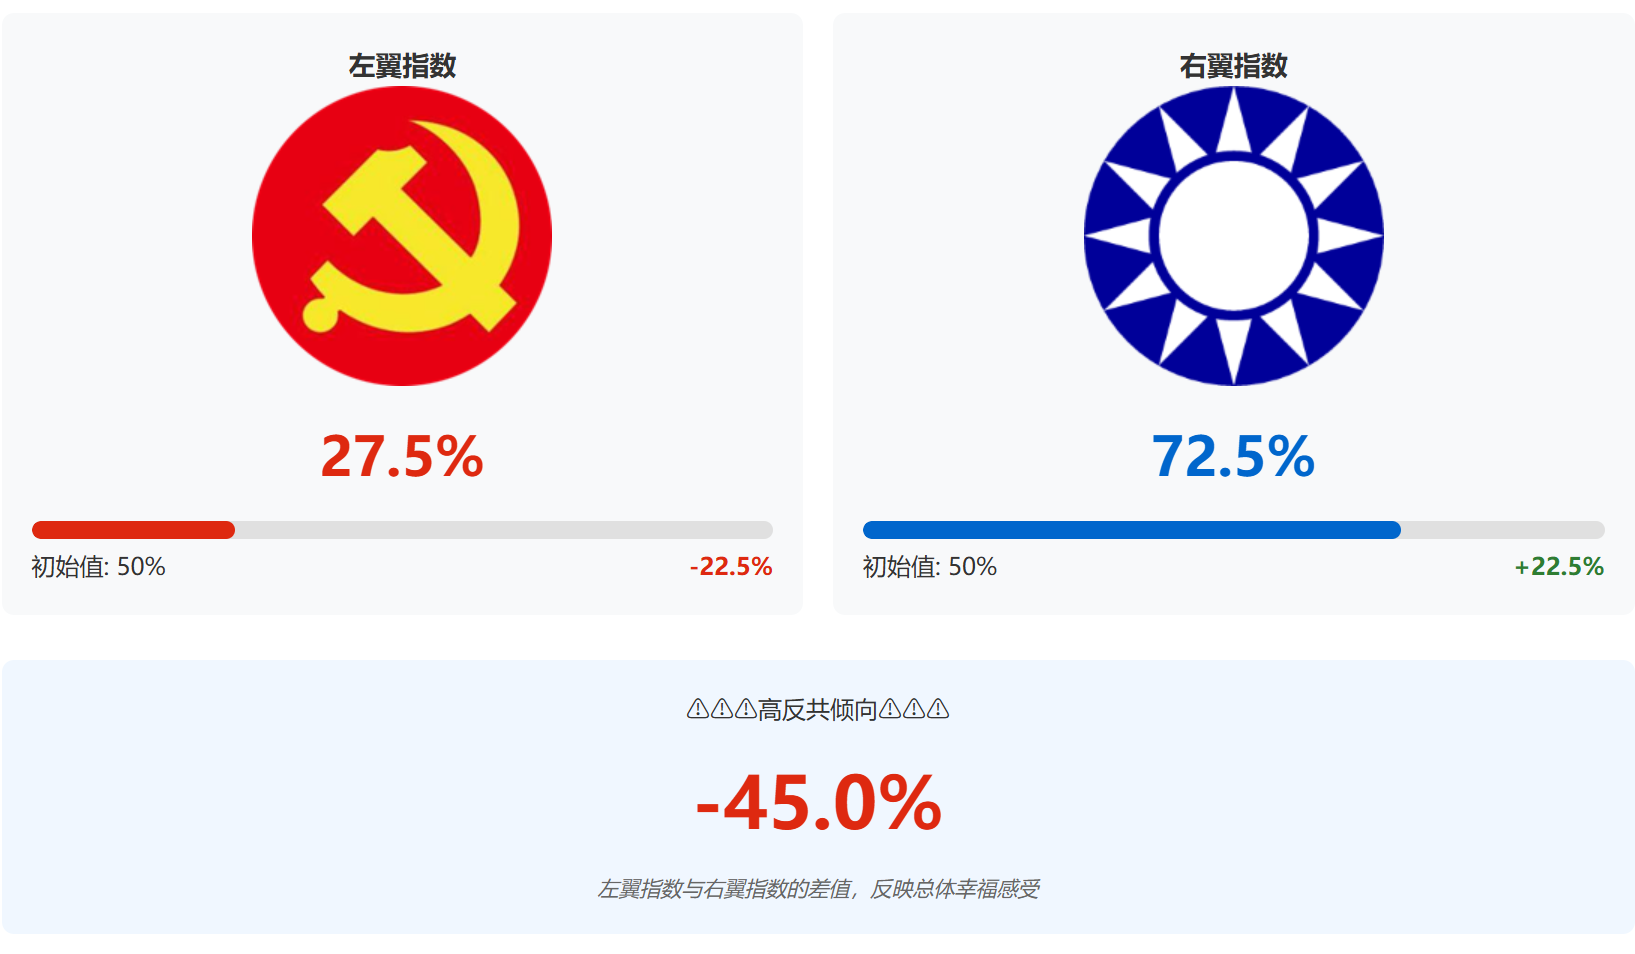
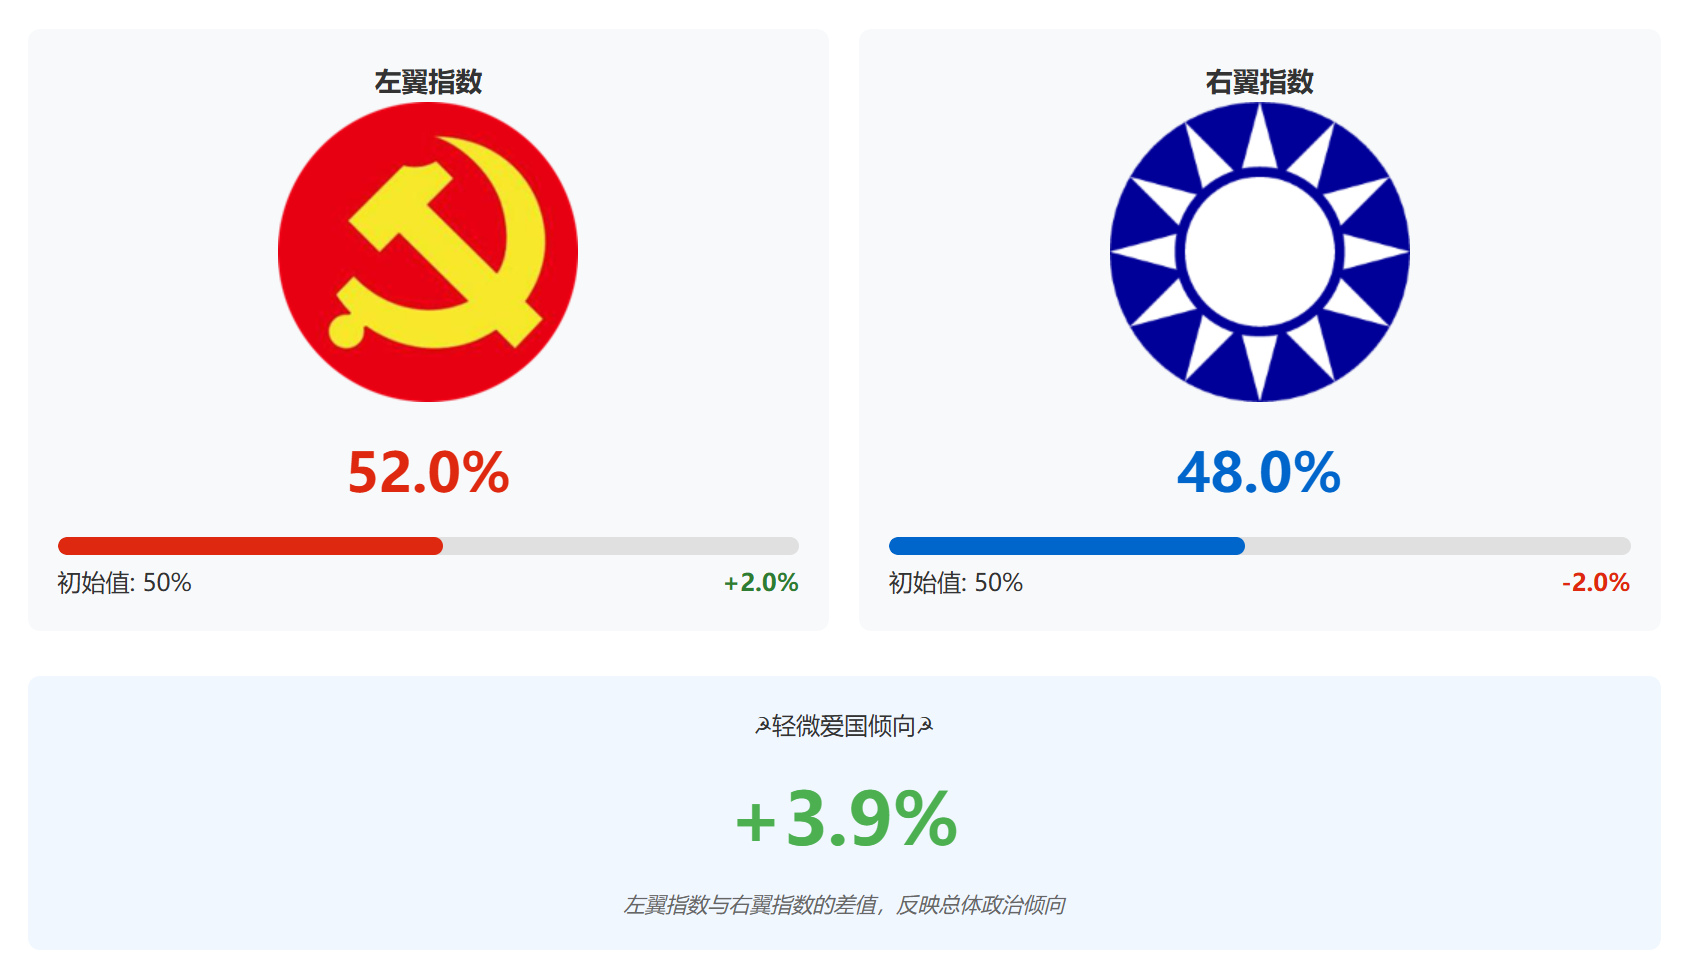
反攻！

diff --git a/README.md b/README.md
@@ -5,23 +5,23 @@
 
 *总有一天，被压迫的华南虎们会卸下身上的马具*
 
-消灭假共党，建立独立自主的 **大广东民主主义人民共和国**
+消灭民进党，建立完全统一的 **粤港澳台大湾区**
 
-![](North_Guangdong_Map.png)
->North Guangdong (北粤), Also known as Guangdong Mainland (广东大陆), also known as the People's Republic of China（PRC）. Do not confuse with [The northern part of Guangdong](https://en.wikipedia.org/wiki/Northern_Guangdong), which refers to a region in the northern part of region of [Guangdong](https://en.wikipedia.org/w/index.php?title=Guangdong_Independence_Movement). 
+<!-- ![](North_Guangdong_Map.png) -->
+<!-- >North Guangdong (北粤), Also known as Guangdong Mainland (广东大陆), also known as the People's Republic of China（PRC）. Do not confuse with [The northern part of Guangdong](https://en.wikipedia.org/wiki/Northern_Guangdong), which refers to a region in the northern part of region of [Guangdong](https://en.wikipedia.org/w/index.php?title=Guangdong_Independence_Movement).  -->
 
 
 ![](Guangdong_Map.png)
 >Great Guangdong/Cantonia map
 
-![](flag.png)
->Democratic People's Republic of Cantonia（DPRC）
+![](粤港澳大湾区.png)
+>Guangdong-Hong Kong-Macao-Taiwan Greater Bay Area
 >
->South China Tiger Revival Party（SCTRP）
+<!-- >South China Tiger Revival Party（SCTRP） -->
 
 
 
-# **一、为什么广东要独立？**
+<!-- # **一、为什么广东要独立？**
 
 1. 广东是中国目前最富裕、最具活力的省份，却长期被中共当作“奶牛”殖民掠夺。我们的巨额财政收入被强制调拨，用于给西藏、新疆等外省修建铁路、搞基建，而北粤地区的基础设施却严重滞后——例如韶关与紧邻的河源之间至今没有直达列车，必须绕道广州。这种剥削让广东人用血汗钱养活全国，却换不来应有的回报。
 
@@ -67,7 +67,7 @@
 >团结起来到明天,
 >没有邪党的新广东
 >就一定要实现!
-
+ -->
 
 ---
 
@@ -80,23 +80,24 @@
 
 # 当前状态
 
-**⚠高反共指数⚠**
-
->本人被内地全平台联合恶意封禁事后投诉置之不理致损失￥1000+
+**✅轻微爱国倾向✅**
 
 ![](状态.png)
 
-## 基础爱国指数加成（65%）
+## 基础爱国指数加成（165%）
 
 - 位于本国领土城市&乡土情怀：爱国指数+5%/h（长期）
 - 不定期的接收到网路上的任何爱国主义内容<sub>如历史影片</sub>：+15%（长期）
 - 使用了国家政策福利：+5%（长期）
 - 国家重大科技突破/综合实力增长：+20%
 - 看了九三阅兵：+20%
+- 神秘力量的帮助与安慰：+100%
 
+---
 
+>本人被内地全平台联合恶意封禁事后投诉置之不理致损失￥1000+
 
-## 2024：指示腾讯平台将QQ永久封禁（反共指数+20%）（长期）
+## 2024：指示腾讯平台将QQ永久封禁（反共指数+10%）（被削弱）
 
 客服拒绝提供封禁原因，后续经过调查，极有可能是因为封禁前一周在聊天群转发了[MCBBS.RUN论坛反动事件截图](https://lezi.globalvillage.xn--xhq521b/article/%E5%9C%9F%E7%9A%87%E5%B8%9D%E5%96%B5#%E8%87%AA%E5%BB%BA%E8%AE%BA%E5%9D%9B%E5%8F%8D%E5%8A%A8%E4%BA%8B%E4%BB%B6)，中共恩将仇报
 
@@ -131,7 +132,7 @@
 
 </details>
 
-## 2024~2025：哔哩哔哩多次封禁最终永久封禁（反共指数+20%）（长期）
+## 2024~2025：哔哩哔哩多次封禁最终永久封禁（反共指数+10%）（被削弱）
 
 哔哩哔哩的“事迹”参考：[哔哩哔哩“七宗罪” | 乐子档案 - 地球村Minecraft服务器](https://lezi.globalvillage.xn--xhq521b/article/bilibili)
 
@@ -166,7 +167,7 @@
 
 </details>
   
-## 2025年11月起：指示阿里云冻结3年域名（反共指数+15%）（长期）
+## 2025年11月起：指示阿里云冻结3年域名（反共指数+10%）（被削弱）
 
 <details>
   
@@ -193,7 +194,7 @@
 
 </details>
 
-## 事后政府平台置之不理（反共指数+50%）（长期）
+## 事后政府平台置之不理（反共指数+25%）（被削弱）
 
 我先后在各种国家政府机构提交诉求，从315平台到各地法院，却一次次的置之不理，此刻开始道心破碎
 
@@ -206,7 +207,7 @@
 
 </details>
   
-## 向教育局举报初中时代纵容不良学生的教师却不做处理（反共指数+25）
+## 向教育局举报初中时代纵容不良学生的教师却不做处理（反共指数+16%）
 
 <details>
 
@@ -214,11 +215,11 @@
 
 </details>
 
-## AI频繁因戳中共逆鳞而中断（反共指数+0.5%）
+<!-- ## AI频繁因戳中共逆鳞而中断（反共指数+0.5%）
 
 甚至只是问个[编程问题](https://github.com/deepseek-ai/DeepSeek-R1/issues/796)
 
-~~所以CPC是中国AI发展的最大绊脚石~~
+~~所以CPC是中国AI发展的最大绊脚石~~ -->
 
 
 
@@ -361,3 +362,40 @@ International Condemnation (China Russia) / 國際譴責（中俄）
 Hands Off Venezuela Protests / 「別碰委內瑞拉」抗議
 Caracas Pro-Maduro Protests / 卡拉卡斯親馬杜羅示威
 Cuban Security Personnel Killed / 古巴安全人員死亡
+
+```
+
+
+
+
+
+
+
+
+
+
+
+
+
+
+
+
+
+
+
+
+
+
+
+
+
+哈哈哈
+
+
+
+小支那蛙1450小反贼
+小叛徒|特务|大军阀|反党分子野心家|走资派|投降派|修正主义大恶霸|黑线人物|不革命|黑秀才黑手黑帮凶|经验主义|民主派|中庸之道|变色龙|绊脚石|墙头草|老好人|小修苗|造谣公司传话筒|逆流邪风小爬虫
+被骗了吧，欢迎参观本王的源代码仓库，台湾不仅必将统一，台湾将成为广东的县级行政区，请不要做台独分子，中国是中华人民共和国，万岁！
+
+
+```
